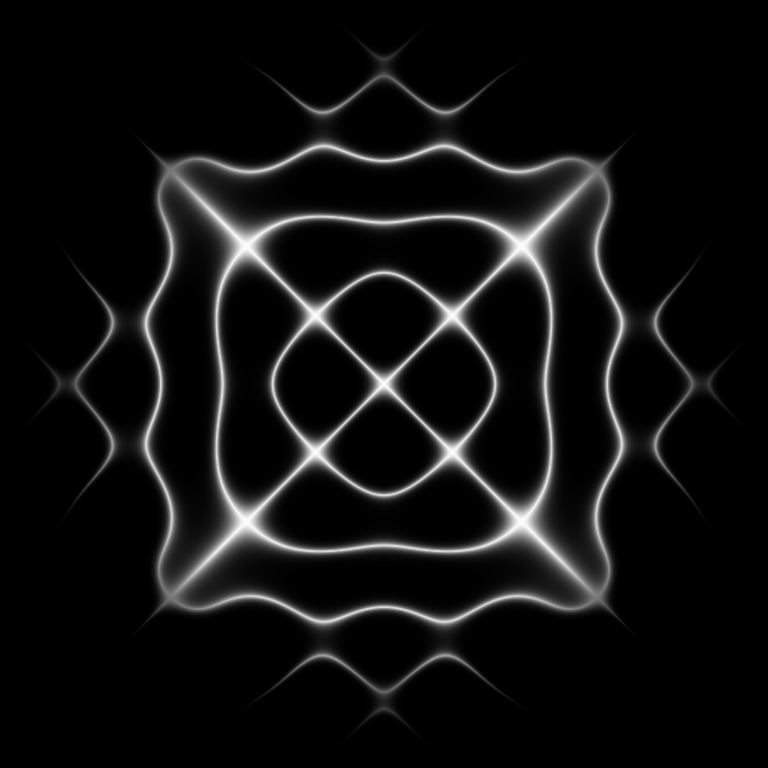
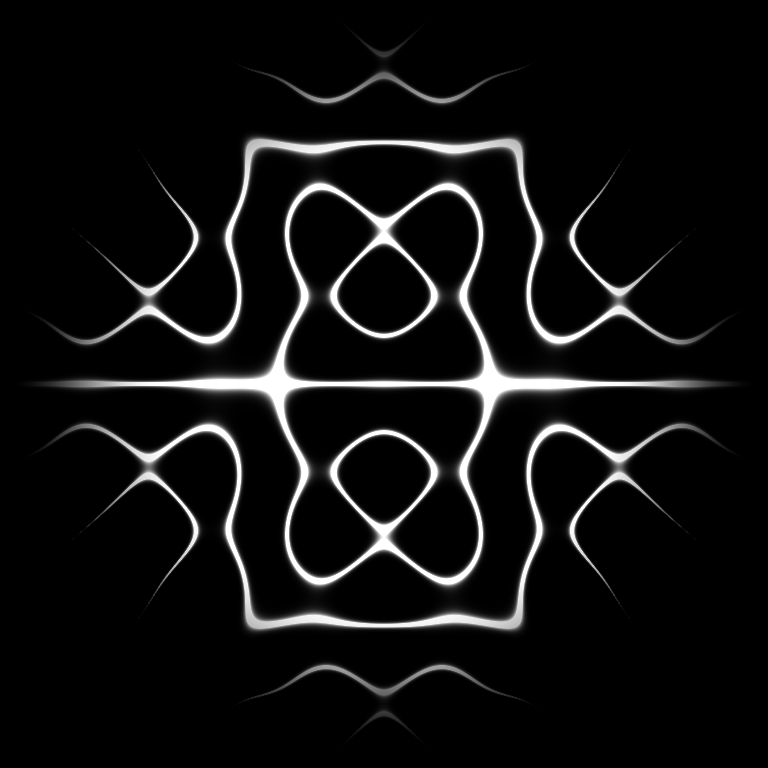
WIP on Chladni kaleidoscope variants

diff --git a/pieces/chladni/chladni_kaleidoscope_5.py b/pieces/chladni/chladni_kaleidoscope_5.py
@@ -8,7 +8,7 @@ from chladni import *
 from geometry import *
 
 
-name = 'chladni_kaleidoscope_4'
+name = 'chladni_kaleidoscope_5'
 width, height = 768, 768
 duration = 10
 
@@ -21,11 +21,10 @@ def make_frame(t):
     p = np.mean(interval_progresses(progress, 4, 'hermite')) * 2*np.pi
 
     # Overlayed wave patterns
-    n = 5 + np.sin(p)
-    m = 6 + 2*np.cos(p)
-    I = np.exp(-np.abs(get_chladni_pattern(n, m, width, height, lim=1.5, angle=np.pi/4)))**8
-    I = np.mean([I, I[:,::-1], I[::-1,:], I[::-1,::-1]], axis=0)
-    I = np.minimum(1, 2*I)**2
+    n = 2.5 + np.sin(p)
+    m = 4 + 1.5*np.cos(p)
+    I = np.mean([np.exp(-np.abs(get_chladni_pattern(n, m, width, height, lim=2, angle=i * 2*np.pi/5)))**8 for i in range(5)], axis=0)
+    I = np.minimum(1, 2*I)**3
 
     # Border fade
     I *= mask

diff --git a/pieces/chladni/chladni_kaleidoscope_6.py b/pieces/chladni/chladni_kaleidoscope_6.py
@@ -8,7 +8,7 @@ from chladni import *
 from geometry import *
 
 
-name = 'chladni_kaleidoscope_4'
+name = 'chladni_kaleidoscope_6'
 width, height = 768, 768
 duration = 10
 
@@ -21,11 +21,10 @@ def make_frame(t):
     p = np.mean(interval_progresses(progress, 4, 'hermite')) * 2*np.pi
 
     # Overlayed wave patterns
-    n = 5 + np.sin(p)
-    m = 6 + 2*np.cos(p)
-    I = np.exp(-np.abs(get_chladni_pattern(n, m, width, height, lim=1.5, angle=np.pi/4)))**8
-    I = np.mean([I, I[:,::-1], I[::-1,:], I[::-1,::-1]], axis=0)
-    I = np.minimum(1, 2*I)**2
+    n = 3 + np.sin(p)
+    m = 4 + np.cos(p)
+    I = np.mean([np.exp(-np.abs(get_chladni_pattern(n, m, width, height, lim=1.5, angle=i * 2*np.pi/6)))**8 for i in range(6)], axis=0)
+    I = np.minimum(1, 3*I)**3
 
     # Border fade
     I *= mask

diff --git a/pieces/chladni/chladni_kaleidoscope_3.py b/pieces/chladni/chladni_kaleidoscope_3.py
@@ -8,7 +8,7 @@ from chladni import *
 from geometry import *
 
 
-name = 'chladni_kaleidoscope_4'
+name = 'chladni_kaleidoscope_3'
 width, height = 768, 768
 duration = 10
 
@@ -21,10 +21,9 @@ def make_frame(t):
     p = np.mean(interval_progresses(progress, 4, 'hermite')) * 2*np.pi
 
     # Overlayed wave patterns
-    n = 5 + np.sin(p)
-    m = 6 + 2*np.cos(p)
-    I = np.exp(-np.abs(get_chladni_pattern(n, m, width, height, lim=1.5, angle=np.pi/4)))**8
-    I = np.mean([I, I[:,::-1], I[::-1,:], I[::-1,::-1]], axis=0)
+    n = 7 + 2*np.sin(p)
+    m = 9 + np.cos(p)
+    I = np.mean([np.exp(-np.abs(get_chladni_pattern(n, m, width, height, lim=1.5, angle=i * 2*np.pi/3)))**8 for i in range(3)], axis=0)
     I = np.minimum(1, 2*I)**2
 
     # Border fade
